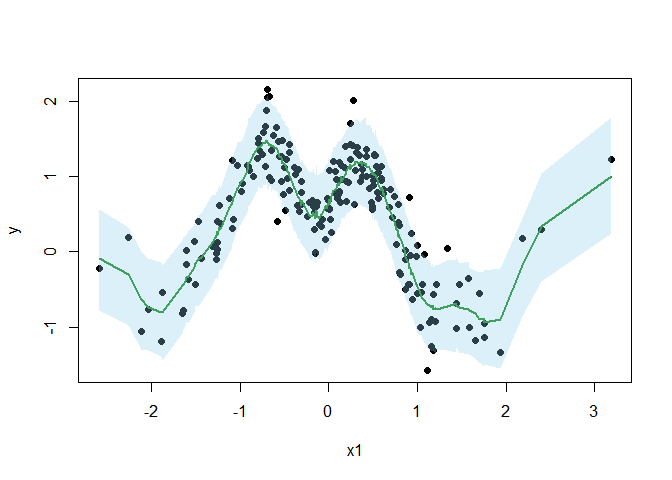
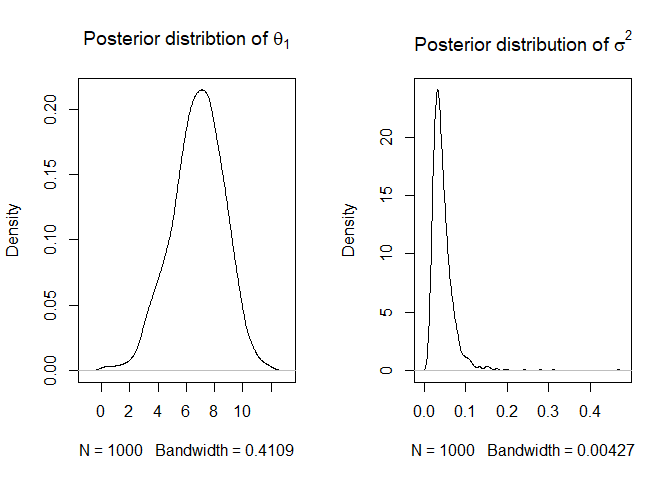
Fixed small bug with offset in base distribution of variational approximation in multivariate models, which led to failure to converge in some cases.
Updated readme file to include more examples.

diff --git a/README.md b/README.md
@@ -1,17 +1,19 @@
 
 # shrinkGPR: Normalizing Flows for Hierarchical Shrinkage in Gaussian Process Regression Models
 
-This repository contains the development version of `shrinkGPR` package
-for Gaussian Process Regression with hierarchical shrinkage priors.
-`shrinkGPR` uses the `torch` package to estimate the parameters via
-variational inference and does not function without it. Specifically, it
-is designed with GPU acceleration via CUDA in mind and may be slow
-without it. Guidance on how to install `torch` with CUDA support can be
-found
+This repository contains the development version of the `shrinkGPR`
+package for Gaussian Process Regression with hierarchical shrinkage
+priors. `shrinkGPR` uses the `torch` package to estimate the parameters
+via variational inference and does not function without it. More
+specifically, it is designed with GPU acceleration via CUDA in mind and,
+while it will function with the CPU version of `torch`, it may be slow
+if used this way, especially for larger models. Guidance on how to
+install `torch` with CUDA support can be found
 [here](https://cran.r-project.org/web/packages/torch/vignettes/installation.html).
 
-The code below walks through a simple example, but is not exhaustive. It
-simulates data, fits a shrinkage GPR model, checks model convergence,
+The code below walks through a few simple examples, but is not
+exhaustive. It simulates data, fits uni/multivariate models with
+shrinkage priors on kernel parameters, checks model convergence,
 extracts posterior samples, and makes predictions.
 
 ## Prerequisites
@@ -41,22 +43,25 @@ torch::cuda_is_available()
 
 ## Usage
 
-### Simulate Data
+### Univariate Response Models
 
-The simGPR function is used to simulate data for Gaussian Process
-Regression:
+#### Simulate Data
+
+The simGPR function is used to simulate data from a Gaussian process
+regression model:
 
 ``` r
-torch_manual_seed(123)
-sim <- simGPR(N = 200, theta = c(10, 0, 0), d_mean = 0, sigma2 = 0.1)
+torch::torch_manual_seed(117)
+sim <- simGPR(N = 25, theta = c(10, 0, 0), d_mean = 0, sigma2 = 0.1)
 ```
 
 Only one covariate (the first one) truly has an impact on y. The other
 two covariates are noise.
 
-### Model Fitting
+#### Model Fitting
 
-Fit the shrinkage GPR model to the simulated data:
+Fitting the GPR model to the simulated data is done with the `shrinkGPR`
+function:
 
 ``` r
 model <- shrinkGPR(y ~ ., data = sim$data, display_progress = FALSE)
@@ -64,7 +69,13 @@ model <- shrinkGPR(y ~ ., data = sim$data, display_progress = FALSE)
 
 `display_progress` is set to `FALSE` to avoid printing the progress bar.
 
-### Check Convergence
+Alternatively, a t-process can be fitted via the `shrinkTPR` function:
+
+``` r
+model_t <- shrinkTPR(y ~ ., data = sim$data, display_progress = FALSE)
+```
+
+#### Check Convergence
 
 Plot the model’s loss to monitor convergence:
 
@@ -72,46 +83,173 @@ Plot the model’s loss to monitor convergence:
 plot(model$loss_stor, type = "l")
 ```
 
-![](README_files/figure-gfm/unnamed-chunk-7-1.png)<!-- -->
+![](README_files/figure-gfm/unnamed-chunk-8-1.png)<!-- --> \####
+Checking on Inverse Lengthscale Parameters
 
-### Generate posterior samples
-
-Generate posterior samples from the variational approximation:
-
-``` r
-samples <- gen_posterior_samples(model, nsamp = 10000)
-```
-
-Plot parallel boxplots of the parameters without outliers:
+A quick check of covariate relevance can be performed by plotting the
+inverse lengthscale parameters $\theta_1, \dots, \theta_d$. This is what
+the `plot` method does when called on a `shrinkGPR` or `shrinkTPR`
+object:
 
 ``` r
-boxplot(samples$thetas, lwd = 2, outline = FALSE, xaxt = "n")
-axis(1, at = 1:ncol(samples$thetas), labels = paste0("theta_", 1:3), las = 2, cex.axis = 0.7)
+plot(model)
 ```
 
 ![](README_files/figure-gfm/unnamed-chunk-9-1.png)<!-- -->
 
-Note that the first parameter is the only one with a non-zero median.
-The other two parameters are shrunk towards zero.
+#### Generate Posterior Samples
 
-### Predictions
-
-Make predictions using the model:
+More samples from the variational approximation can be generated with
+the `gen_posterior_samples` function:
 
 ``` r
-preds <- predict(model, newdata = sim$data, nsamp = 1000)
+samples <- gen_posterior_samples(model, nsamp = 1000)
+```
+
+For example, this allows a more detailed look at the posterior
+distribution of the inverse lengthscale parameters:
+
+``` r
+par(mfrow = c(1, 2))
+plot(density(samples$thetas[,1]), main = bquote("Posterior distribtion of" ~ theta[1]))
+plot(density(samples$sigma2), main = bquote("Posterior distribution of" ~ sigma^2))
+```
+
+![](README_files/figure-gfm/unnamed-chunk-11-1.png)<!-- -->
+
+#### Predictions
+
+calc_pred_moments can be used to calculate the predicted mean and
+variance for new data points. Here, we predict across a range of values
+for the first covariate while holding the other two covariates at zero:
+
+``` r
+newdata <- data.frame(x.1 = seq(min(sim$data$x.1), max(sim$data$x.1), length.out = 200), x.2 = 0, x.3 = 0)
+preds <- calc_pred_moments(model, newdata = newdata, nsamp = 1000)
+```
+
+Alternatively, we can use the `predict` function to sample directly from
+the full posterior predictive distribution:
+
+``` r
+preds_samples <- predict(model, newdata = newdata, nsamp = 1000)
 ```
 
 Plot the predicted values and 90% credible intervals:
 
 ``` r
-preds_quantiles <- apply(preds, 2, quantile, c(0.05, 0.5, 0.95))
-order <- order(sim$data$x.1)
-plot(sim$data$x.1[order], sim$data$y[order], pch = 19, col = "black", xlab = "x1", ylab = "y")
-lines(sim$data$x.1[order], preds_quantiles[2, order], col = "forestgreen", lwd = 2)
-polygon(c(sim$data$x.1[order], rev(sim$data$x.1[order])),
-        c(preds_quantiles[1, order], rev(preds_quantiles[3, order])),
+preds_quantiles <- apply(preds$means, 2, quantile, c(0.05, 0.5, 0.95))
+
+plot(sim$data$x.1, sim$data$y, pch = 19, col = "black", xlab = "x1", ylab = "y", 
+     ylim = 1.4 * range(sim$data$y))
+lines(newdata$x.1, preds_quantiles[2, ], col = "forestgreen", lwd = 2)
+polygon(c(newdata$x.1, rev(newdata$x.1)),
+        c(preds_quantiles[1, ], rev(preds_quantiles[3, ])),
         col = adjustcolor("skyblue", alpha.f = 0.3), border = NA)
 ```
 
-![](README_files/figure-gfm/unnamed-chunk-11-1.png)<!-- -->
+![](README_files/figure-gfm/unnamed-chunk-14-1.png)<!-- -->
+
+#### Sweep Over One Covariate
+
+The `gen_marginal_samples` function can be used to generate samples from
+the marginal posterior predictive distribution for a single covariate,
+while either fixing the other covariates or sampling them from the data
+used for training. Here, we sweep over the first covariate while holding
+the other two covariates at zero:
+
+``` r
+fixed_data <- data.frame(x.2 = 0, x.3 = 0)
+marginal_samples <- gen_marginal_samples(model, to_eval = "x.1", fixed_x = fixed_data)
+```
+
+Marginal samples are equipped with a plot method, which can be used to
+visualize the marginal effects of the first covariate:
+
+``` r
+plot(marginal_samples)
+```
+
+![](README_files/figure-gfm/unnamed-chunk-16-1.png)<!-- -->
+
+### Multivariate Response Models
+
+#### Simulate Data
+
+Simulating from a multivariate GPR model can be done with the `simMVGPR`
+function:
+
+``` r
+torch::torch_manual_seed(42)
+sim_MV <- simMVGPR(N = 200, M = 3, d = 3, theta = c(3, 0, 0), sigma2 = 0.1)
+```
+
+#### Model Fitting
+
+Fitting a multivariate GPR model is done with the `shrinkMVGPR`
+function. Response covariates are specified via `cbind` in the formula:
+
+``` r
+model_MV <- shrinkMVGPR(cbind(y.1, y.2, y.3) ~ ., data = sim_MV$data, display_progress = FALSE,
+                        optim_control = list(lr = 1e-3))
+```
+
+A small note here: The default learning rate for the multivariate models
+is set fairly conservatively at `1e-4`, to ensure convergence across a
+wide array of model sizes. For smaller models, this may be unnecessarily
+slow, and a learning rate of `1e-3` or even `1e-2` may be appropriate.
+If you find that convergence to be slow, try playing with the learning
+rate.
+
+Analogous to the univariate case, a multivariate t-process can be fitted
+with the `shrinkMVTPR` function:
+
+``` r
+model_MV_t <- shrinkMVTPR(cbind(y.1, y.2, y.3) ~ ., data = sim_MV$data, display_progress = FALSE)
+```
+
+#### Check Convergence
+
+Checking convergence is the same for the multivariate case. Plot the
+model’s loss to monitor convergence:
+
+``` r
+plot(model_MV$loss_stor, type = "l")
+```
+
+![](README_files/figure-gfm/unnamed-chunk-20-1.png)<!-- -->
+
+#### Checking Model and Generating posterior samples
+
+Functions for generating and visualizing samples from the variational
+approximation of the posterior are the same for the multivariate case.
+
+``` r
+plot(model_MV)
+```
+
+![](README_files/figure-gfm/unnamed-chunk-21-1.png)<!-- -->
+
+``` r
+samples_MV <- gen_posterior_samples(model_MV, nsamp = 1000)
+
+par(mfrow = c(1, 2))
+plot(density(samples_MV$thetas[,1]), main = bquote("Posterior distribtion of" ~ theta[1]))
+plot(density(samples_MV$sigma2), main = bquote("Posterior distribution of" ~ sigma^2))
+```
+
+![](README_files/figure-gfm/unnamed-chunk-22-1.png)<!-- -->
+
+#### Predictions
+
+Marginal effects can be visualized with the `gen_marginal_samples`
+function, just like in the univariate case. Here, we visualize the
+marginal effect of the first covariate on the first response variable,
+while holding the other two covariates at zero:
+
+``` r
+marg <- gen_marginal_samples(model_MV, to_eval = "x.1", fixed_x = data.frame(x.2 = 0, x.3 = 0))
+plot(marg)
+```
+
+![](README_files/figure-gfm/unnamed-chunk-23-1.png)<!-- -->

diff --git a/NEWS.md b/NEWS.md
@@ -1,3 +1,7 @@
+## Changes in Version 2.0.1:
+  - Updated README.md to be more informative, as well as include multivariate case
+  - Fixed an issue with the distribution of the latent variables in shrinkMVGPR causing lack of convergence in some cases
+
 ## Changes in Version 2.0.0:
   - Potentially breaking change: Changed name of global shrinkage parameter from lambda to tau, as to be more consistent with references
   - Added support for multivariate GPR and TPR under shrinkage
